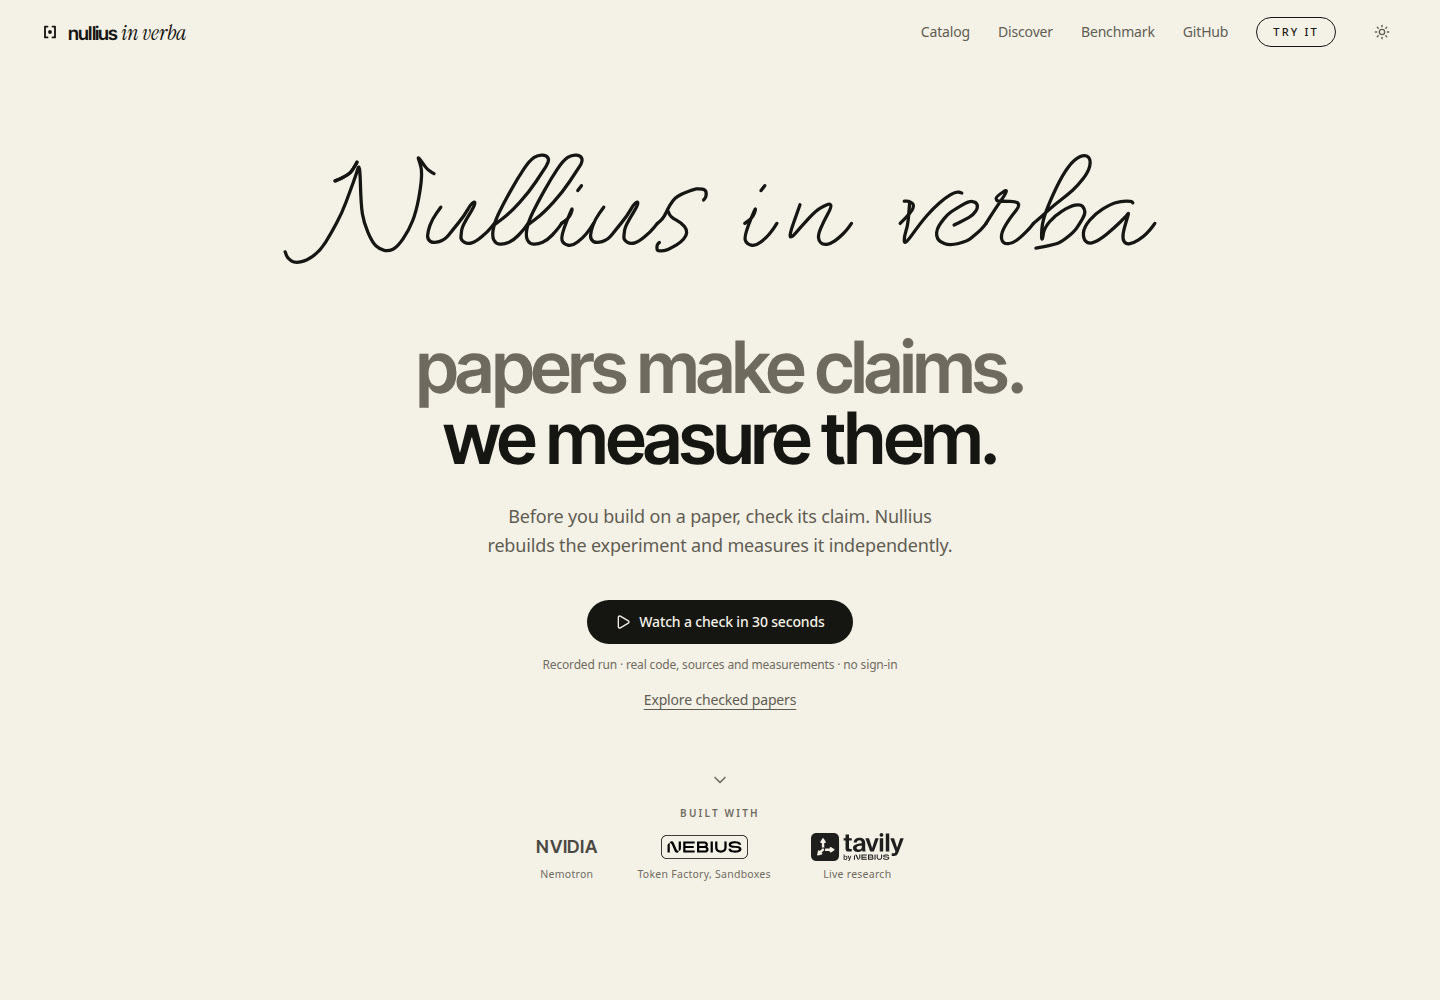
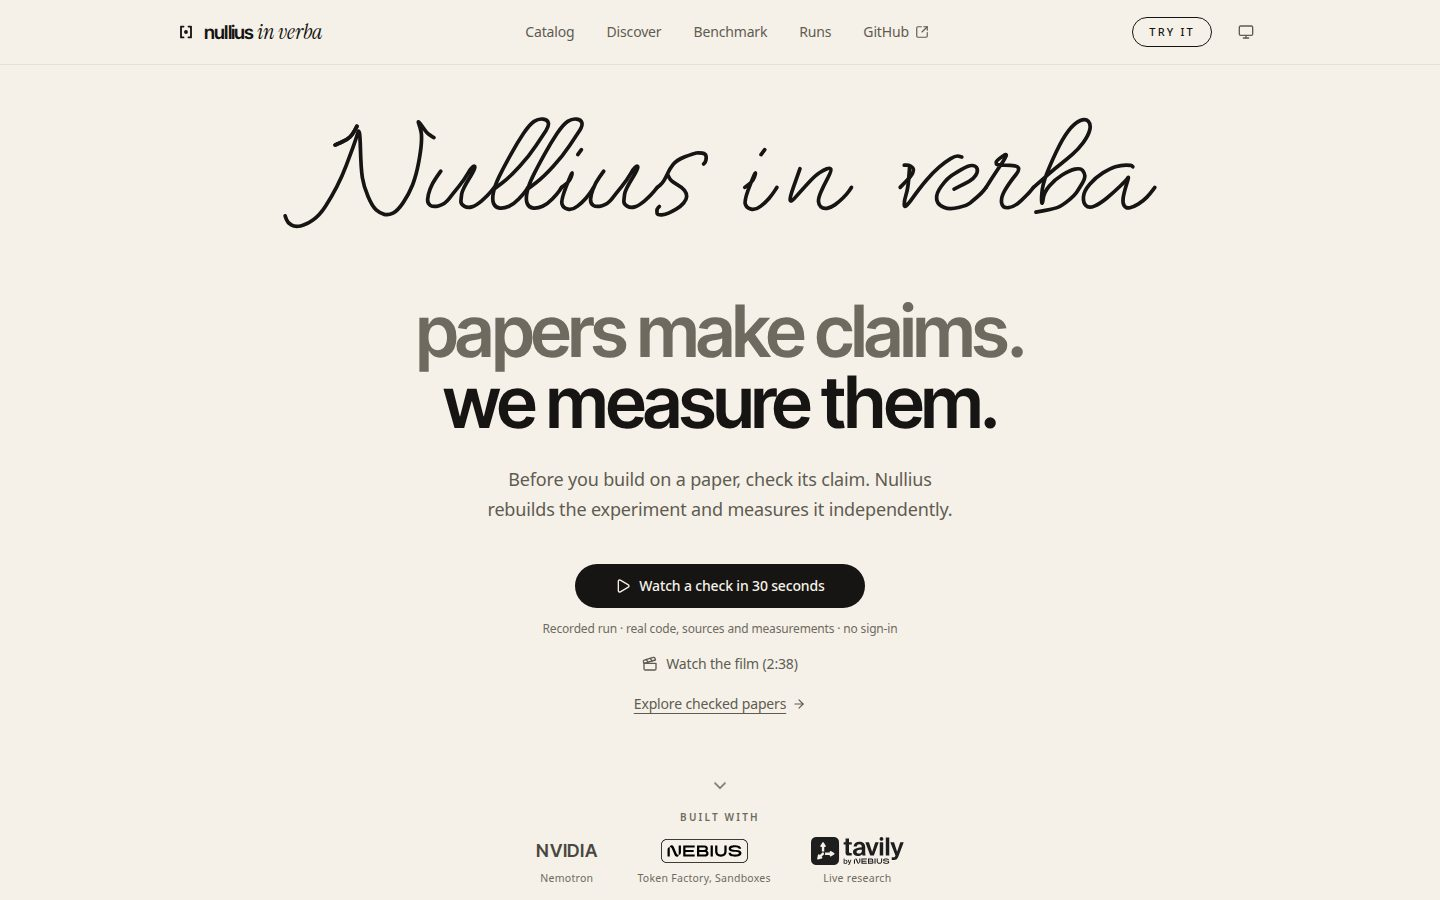
docs: README for judges, FITS/Kipf/GLinear showcase, Nebius/NVIDIA and Tavily sections, fresh screenshots

diff --git a/README.md b/README.md
@@ -7,11 +7,15 @@
 
 ### Here, the paper is the test suite.
 
-A machine learning paper makes a claim. Nullius writes an experiment, runs it in an isolated sandbox, and independently measures whether the target is reached.
+**The problem.** Many machine learning results are hard to reproduce, and checking one claim by hand can take days. In a 2016 *Nature* survey of 1,576 researchers, more than 70% said they had tried and failed to reproduce another scientist’s experiment.
+
+**Who it is for.** Reviewers, PhD students and ML teams who want to know whether a reported number holds before they build on it.
+
+**The idea.** The paper is the test suite. A paper states a target value. Nullius writes its own experiment, runs it in an isolated sandbox, and an independent harness measures whether the target is reached. We also plant a deliberately false claim next to real ones: in our benchmark, none of the 48 planted claims was accepted as reproduced.
 
 **NVIDIA Nemotron · Nebius Token Factory · Nebius Sandboxes · Tavily**
 
-[Try the demo](https://nullius.akca.dev/) · [Explore the evidence](#three-recent-checks) · [Run locally](#run-locally) · [How it works](#how-it-works) · [Evaluation](#what-we-measured) · [MIT licence](LICENSE)
+[Try the demo](https://nullius.akca.dev/) · [Watch the film](VIDEO_URL_TBD) · [Evidence](#checks-you-can-open) · [Built on Nebius and NVIDIA](#built-on-nebius-and-nvidia) · [Run locally](#run-locally) · [Evaluation](#what-we-measured) · [MIT licence](LICENSE)
 
 </div>
 
@@ -22,7 +26,14 @@ A machine learning paper makes a claim. Nullius writes an experiment, runs it in
 
 Built for the **Nebius × NVIDIA Global AI Hackathon**, Coding and Agentic Engineering, with Tavily for discovery and evidence research. *Nullius in verba* means “take nobody’s word for it.”
 
-**Publication status:** the [hosted demo](https://nullius.akca.dev/) is reachable (checked 12 Oct 2026). Recorded evidence is open without sign-in; fresh runs depend on live admission limits. The new submission video and Devpost entry are not published yet. You can also browse the stored [certificates](#three-recent-checks) here or preview the product locally without API keys.
+**Demo:** [nullius.akca.dev](https://nullius.akca.dev/), open without sign-in. Video: [VIDEO_URL_TBD](VIDEO_URL_TBD). Live runs cost real money, so the server admits a limited number per day; when a live run is not available, the page offers a labelled recorded replay of a real run.
+
+### Try it in two minutes
+
+1. Open the [demo](https://nullius.akca.dev/) and choose **Catalog**.
+2. Pick **FITS**, **Kipf GCN on Cora** or **GLinear**. These three are open for a fresh check.
+3. Start a check. A readiness check runs before any paid step, and the run ends in a verdict or an explained stop. Or press **Watch a check in 30 seconds** for a recorded replay with no waiting.
+4. Open **Discover** to let Tavily search for new papers on supported datasets.
 
 ## From a paper to a decision
 
@@ -35,29 +46,31 @@ Before you build on a reported result, check what you can reach with your setup.
 
 The result helps a reviewer, PhD student or ML team decide what to investigate before relying on a paper. We have not measured time savings or completed a user study.
 
-## Three recent checks
+## Checks you can open
 
-Three papers reached their fixed numerical targets on **ETTh1**, forecast horizon **96**, with **three seeds each** and tolerance **±0.01 MSE**. MSE is prediction error; lower is better.
+Three papers are open for a fresh check in the demo. Each ran with **three or more seeds** and a tolerance fixed before the run (**±0.01**: MSE for the two forecasting papers, accuracy for Kipf). Lower MSE is better; accuracy is the share of correct labels.
 
-| Paper | Paper claims | Nullius measured, mean ± std | Gross inference cost | Stored certificate |
-|---|---:|---:|---:|---|
-| **TSMixer** · Google | 0.361 | **0.3624 ± 0.0003** | $0.2354 | [Read evidence](web/public/data/disc_2303_06053/20261009-201230/zeugnis.md) |
-| **SparseTSF** | 0.359 | **0.3653 ± 0.0034** | $0.2035 | [Read evidence](web/public/data/disc_2405_00946/20261009-220822/zeugnis.md) |
-| **GLinear** | 0.3820 | **0.3796 ± 0.0003** | $0.2047 | [Read evidence](web/public/data/disc_2501_01087/20261010-161916/zeugnis.md) |
+| Paper | Dataset | Paper claims | Nullius measured, mean ± std | Seeds | Gross inference cost | Stored certificate |
+|---|---|---:|---:|---:|---:|---|
+| **FITS** (autonomous live run, 14 Oct 2026) | ETTh1, horizon 96 | 0.372 | **0.37203 ± 0.00005** | 3 | $0.3101 | [Read evidence](web/public/data/disc_2307_03756/20261014-080542/zeugnis.md) |
+| **Kipf & Welling GCN** | Cora | 0.815 | **0.8146 ± 0.0077** | 9 | $0.1884 | [Read evidence](web/public/data/disc_1609_02907/20261009-160716/zeugnis.md) |
+| **GLinear** | ETTh1, horizon 96 | 0.3820 | **0.3796 ± 0.0003** | 3 | $0.2047 | [Read evidence](web/public/data/disc_2501_01087/20261010-161916/zeugnis.md) |
 
-**Preliminary · method fidelity not checked.** These are manually selected examples after development, outside the eight development units. They are not a blind test or a general success rate. Costs include configured VAT; Tavily and sandbox costs are separate.
+**FITS is the strongest case.** The run started on the deployed server and ran without human edits: the specification matched the paper’s settings 9 of 9, and the three seeds landed within 0.0001 of the claim. [Run record](docs/audits/fits_live_a514edeb_20261014.json) · [what we fixed to get there](docs/fits_code_generation_fixes_20261014.md).
 
-TSMixer retains protocol and table-column warnings. GLinear’s target was checked manually before the run; automatic target extraction returned no JSON and automatic column assignment remained unchecked. Those warnings stay in its certificate. See the [GLinear completion record](docs/paper_candidates_20261010.md#abschluss-glinear), [catalog](benchmark/catalog.yaml), and stored dossiers and event logs beside each certificate.
+**Preliminary · method fidelity not checked.** “Reproduced” means the target number was reached with our setup, not that the method was verified. These are hand-picked examples after development, not a blind test or a general success rate. Costs include VAT; Tavily and sandbox costs are separate. The FITS certificate keeps a note that its table column was not checked; GLinear’s target was checked manually and its certificate lists the same kind of warnings. See the [GLinear completion record](docs/paper_candidates_20261010.md#abschluss-glinear) and the [catalog](benchmark/catalog.yaml).
 
-**Failed checks stay visible.** SL-GCN missed its target; HaKAN failed in setup. Acacia has no completed catalog verdict and remains unchecked. A miss can reflect an agent or setup weakness; it does not prove the paper wrong.
+**Other recorded results, with their notes.** TSMixer (0.3624 vs 0.361) was recorded with a smaller model than the paper (1 block, hidden size 128 instead of 6 and 512). SparseTSF (0.3653 vs 0.359) used the linear variant and input length 720; a new check is locked because the authors’ launch script does not name the variant. BANGS reached 0.819 against 0.842, a partial match that takes about 80 minutes on CPU. The site shows these as dated “Recorded” cards.
+
+**Failed checks stay visible.** SL-GCN missed its target (0.595 vs 0.829); HaKAN failed in setup. Acacia has no completed verdict. A miss can reflect an agent or setup weakness; it does not prove the paper wrong.
 
 ## The product
 
 **Overview → recorded check → source → generated code → measurements → PDF.** The main path works with stored evidence; you can inspect it without starting a paid experiment.
 
 <picture>
-  <source media="(prefers-color-scheme: dark)" srcset="docs/img/readme-glinear-dark.jpg">
-  <img src="docs/img/readme-glinear.jpg" alt="GLinear evidence: claimed MSE 0.3820 beside measured MSE 0.3796, preliminary verdict and certificate export" width="100%">
+  <source media="(prefers-color-scheme: dark)" srcset="docs/img/readme-fits-dark.jpg">
+  <img src="docs/img/readme-fits.jpg" alt="FITS evidence page: claimed MSE 0.3720 beside measured 0.3720, verdict reproduced, method not verified, three live Tavily calls, certificate export" width="100%">
 </picture>
 
 | Page | What you can do |
@@ -68,7 +81,7 @@ TSMixer retains protocol and table-column warnings. GLinear’s target was check
 | **Live run** | Watch sources, plan, generated code, repairs and measurements arrive. A fresh run makes paid calls. |
 | **Evidence** | Inspect the claim, source quotations, code, branch tree and per-seed measurements; export a PDF certificate. |
 
-The **What-if** control changes the target, while measured predictions stay fixed. Result charts, seed measurements, replay and PDF use the selected attempts that contribute to the recorded verdict. Other candidates and repairs remain in the branch tree. Legacy runs without selection markers retain their recorded measured attempts. PDF export always uses the stored result, including its limitations.
+The **What-if** control changes the target, while measured predictions stay fixed. Charts, seed tables, replay and PDF show the attempts behind the verdict. Other candidates and repairs stay in the branch tree. PDF export always includes the stored result and its limitations.
 
 ## What we measured
 
@@ -111,16 +124,47 @@ flowchart LR
 
 | Component | Role |
 |---|---|
-| **Nemotron 3 Super on Token Factory** | Plans, writes and repairs code; extracts setup details. |
-| **Nemotron 3.5 Lightning on Token Factory** | Extracts target values. |
+| **Nemotron on Token Factory** | Plans, writes and repairs code; extracts setup details and targets. |
 | **Nebius Sandboxes** | Isolated execution, snapshot branches for attempts and seeds. |
-| **Tavily** | Search and Extract for discovery, source text, setup and errors; limited Crawl for community sources. |
+| **Tavily** | Discovery, source text, setup details, error search, community check. |
 | **Python / FastAPI** | Orchestration, recorded evidence, live events and admission controls. |
 | **React / Vite** | Product pages, replay, source inspection and PDF print preview. |
 
-Historical v2–v4 runs used Nemotron Ultra for planning before its removal on 9 Oct 2026; current runs use Super. Each run records the models it used.
+## Built on Nebius and NVIDIA
 
-Tavily sources carry mode, timestamp and SHA-256. Community findings are reported separately after the verdict; when a finding can be tested, it may become an additional measured experiment. These experiments do not change the original verdict. [Examples and the failed automatic `drop_last` search](docs/evaluation_notes.md#how-we-use-tavily).
+**How Nemotron is used.** Nemotron does the reading, writing and judging; it never runs code. Each role has its own model, set in `.env`:
+
+| Role | Model on Token Factory | Job |
+|---|---|---|
+| `code`, `extract`, `reasoning` | **Nemotron 3 Super** (`nemotron-3-super-120b-a12b`) | Writes the research plan, writes and repairs the experiment code, extracts setup details with word-for-word quotes, writes the final verdict text. |
+| `fast` | **Nemotron 3.5 Lightning** | Reads target values from tables and triages short outputs. |
+
+Nemotron 3 Ultra handled plan and verdict in benchmark v2–v4 until Token Factory removed it on 9 Oct 2026; Super has done all roles since. Each stored run records the models it used.
+
+**Where Token Factory helped.**
+- **One OpenAI-compatible endpoint, switched by `.env`.** We prototyped on free OpenRouter endpoints and moved to Token Factory by changing `LLM_PROVIDER` and the model IDs. The only provider-specific code is the LLM client (`src/repro_agent/llm.py`).
+- **Cost we could read per call.** The API returns `usage` including reasoning tokens. We log every call to `logs/costs.jsonl`, apply budget guards before each call (warning at 80%, stop at 95%) and enforce a per-run cap. Our log matched the console within rounding on 2 Oct 2026 ([feedback](docs/nebius_feedback.md), item E13).
+- **Cheap enough to measure.** A typical check costs about $0.2–0.3 gross (see the table above). A 48-run benchmark cost $3.60 (v2) and $3.10 (v3) gross, so every change to the agent could be tested against the full set.
+
+**Nebius services used.**
+- **Nebius Sandboxes** (`contree-sdk`): every experiment runs in a sandbox branch. One snapshot holds Python, the data and the harness; each attempt and each seed branches from it, so seeds run in parallel (up to 4 at a time by default; 20 parallel branches ran without error on 28 Sep 2026). Training runs without network access.
+- **Nebius Token Factory**: all model calls, as above.
+
+Our notes on what worked and what hurt, with evidence for each item: [Feedback on Token Factory, Sandboxes and Nemotron](docs/nebius_feedback.md).
+
+## Tavily at run time
+
+A normal run calls Tavily live, and each stored source carries its mode, timestamp and SHA-256:
+
+| Step | Tavily call | What it answers |
+|---|---|---|
+| Discovery | Search | Which new papers report a claim on a dataset we support? |
+| Claim source | Extract | What does the paper’s table say, and where? |
+| Setup details | Extract on the README and configs | Which hyperparameters and splits does the repository use? Each value needs a quote. |
+| Errors | Search with the error text | How do others fix this failure? |
+| Community check | Search, limited Crawl | What do issues and critiques say? Reported after the verdict; the verdict never changes. |
+
+In the FITS run above, the Evidence page shows “3 live Tavily calls” (the repository README and two error searches); its paper text came from a stored copy of the LaTeX source. We use Tavily as a product capability (finding and citing sources), not as a measured accuracy gain: our benchmark showed no reliable difference with or without it. [Examples and the failed automatic `drop_last` search](docs/evaluation_notes.md#how-we-use-tavily).
 
 ## Run locally
 
@@ -177,8 +221,11 @@ npm test
 
 - **Supported:** Cora (Planetoid and random splits), CiteSeer (Planetoid split), ETTh1 (forecast horizon 96). CPU experiments on small models. PubMed and other ETT datasets remain unreleased after reference validation misses: [validation results](benchmark/experiments/results/datasets_v2_validation.md).
 - **Unverified:** method fidelity, general performance on unseen papers and user time savings. Executing the authors’ own program is not a product mode.
-- **Live controls:** admission floors, daily/per-IP limits and recorded fallback exist. The 10 Oct production fix added shared per-job inference budgets, durable request reservations, Tavily credit reservations and cooperative timeout cancellation. Offline tests verify the controls; provider prices, actual balances, sandbox/hosting costs and spending from other machines remain outside that proof. [Cost-policy review](docs/cost_policy_review.md#production-fix--10-oct-after-review).
-- **Next:** one person tests the finished product. Their observations precede decisions about further live-demo steps and author outreach. [Test plan](docs/product_test_20261010.md). TimeBase, then SOFTS, remain candidates; no new paid paper runs are being started.
+- **Live controls:** admission floors, daily and per-IP limits, a per-run cost cap and the recorded fallback exist. Offline tests verify them; real provider prices, balances and hosting costs are outside that proof. [Cost-policy review](docs/cost_policy_review.md#production-fix--10-oct-after-review).
+
+### Where this goes next
+
+No promises, only direction: more datasets (each needs one task and one harness, built once), a check of whether the generated code follows the paper’s method, and a GPU tier for papers that CPU cannot run (one claim failed for that reason: its model needs a CUDA kernel library).
 
 ## Repository guide
 
